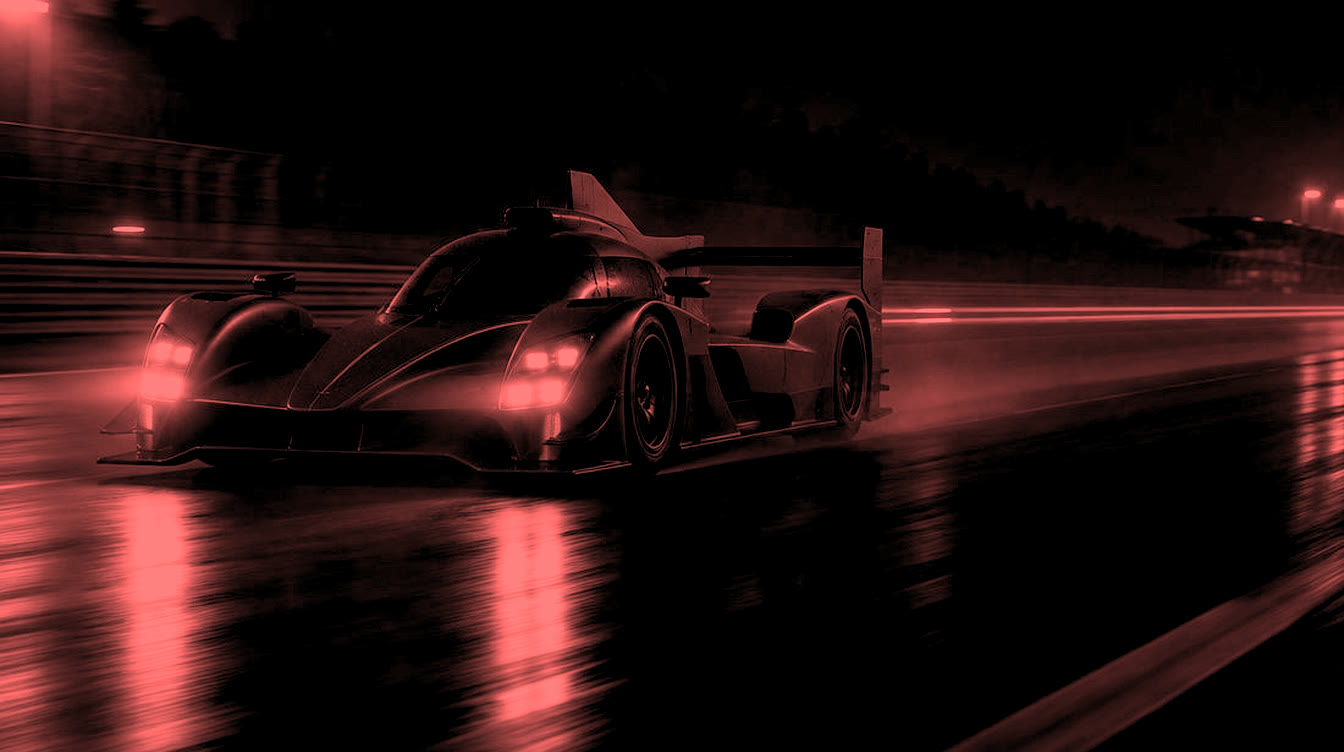
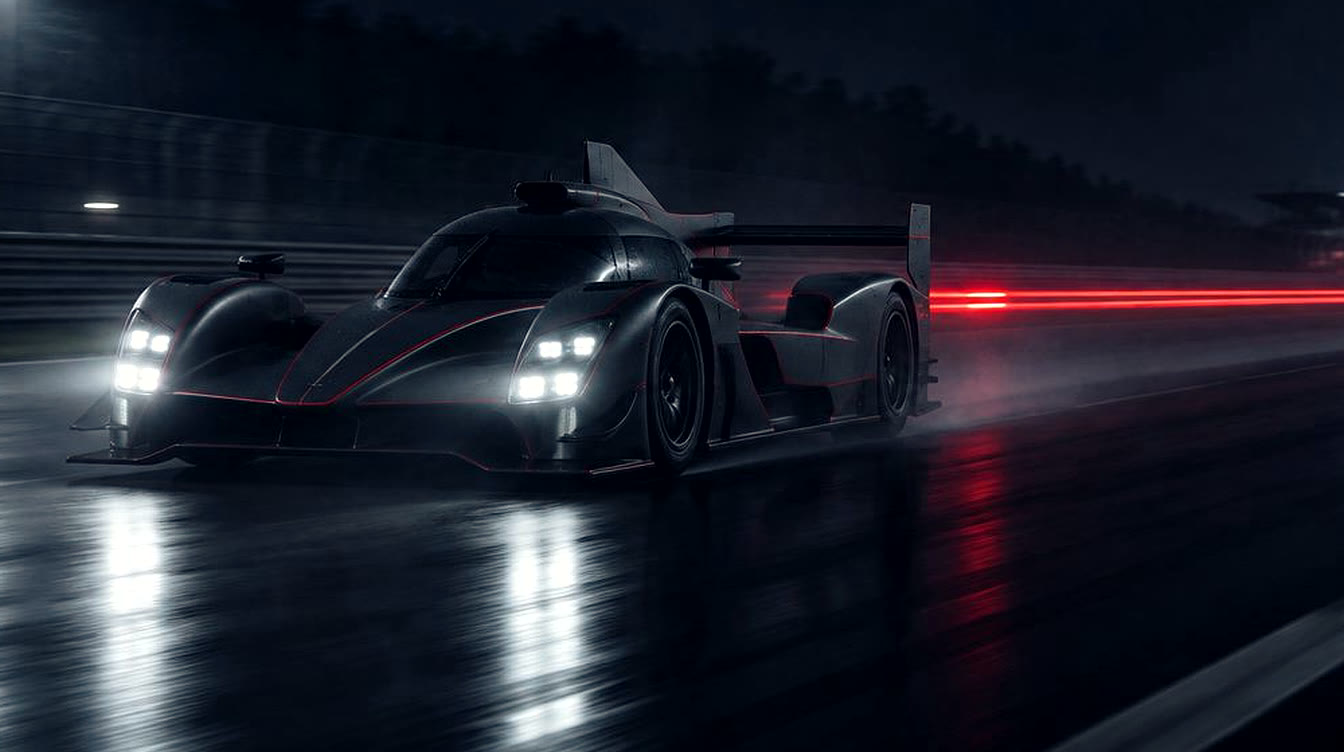
Onde assistir: WEC e WRC; foto de Le Mans com cor normal

diff --git a/le-mans.html b/le-mans.html
@@ -11,7 +11,7 @@
 <link rel="apple-touch-icon" href="assets/app/apple-touch-icon.png">
 <meta property="og:title" content="Le Mans | Automobilismo Na Veia">
 <meta property="og:description" content="Um dia inteiro de corrida. Sem parar.">
-<meta property="og:image" content="https://automobilismonaveia.com.br/assets/img/cat/le-mans.jpg">
+<meta property="og:image" content="https://automobilismonaveia.com.br/assets/img/cat/le-mans.jpg?v=2">
 <link rel="canonical" href="https://automobilismonaveia.com.br/le-mans.html">
 <meta property="og:url" content="https://automobilismonaveia.com.br/le-mans.html">
 <meta property="og:type" content="website">
@@ -22,7 +22,7 @@
 <link rel="preconnect" href="https://fonts.googleapis.com">
 <link rel="preconnect" href="https://fonts.gstatic.com" crossorigin>
 <link href="https://fonts.googleapis.com/css2?family=Inter:wght@400;500;600;700;800&family=Exo+2:wght@700;800&display=swap" rel="stylesheet">
-<link rel="preload" as="image" href="assets/img/cat/le-mans.jpg">
+<link rel="preload" as="image" href="assets/img/cat/le-mans.jpg?v=2">
 <link rel="stylesheet" href="assets/css/estilo.css?v=178">
 </head>
 <body data-cat="le-mans">

diff --git a/onde-assistir.html b/onde-assistir.html
@@ -67,7 +67,7 @@
     document.getElementById('oa-lista').innerHTML = (window.GRUPOS || []).map(function (g) {
       return '<h2 class="oa-grupo-tit">' + esc(g.nome) + '</h2><div class="oa-grade">' + g.cats.map(function (c) {
         if (!O.cats[c.slug]) return '';
-        return '<article class="oa-card"><a class="oa-foto" href="' + c.slug + '.html"><img src="' + c.foto + '" alt="" loading="lazy"><b>' + esc(c.nome) + '</b></a>' +
+        return '<article class="oa-card"><a class="oa-foto" href="' + c.slug + '.html"><img src="' + c.foto + '" alt="" loading="lazy"><b>' + esc(c.menu || c.nome) + '</b></a>' +
           O.quadro(c.slug, true) + (O.cats[c.slug].nota ? '<p class="oa-nota">' + esc(O.cats[c.slug].nota) + '</p>' : '') + '</article>';
       }).join('') + '</div>';
     }).join('');

diff --git a/assets/js/dados.js b/assets/js/dados.js
@@ -587,7 +587,7 @@ window.CATEGORIAS = [
 },
 {
   slug: 'le-mans', nome: 'Le Mans', menu: 'Le Mans', guia: false,
-  foto: 'assets/img/cat/le-mans.jpg',
+  foto: 'assets/img/cat/le-mans.jpg?v=2',
   frase: 'Um dia inteiro de corrida. Sem parar.',
   intro: 'A corrida mais famosa do mundo dura 24 horas: três pilotos revezam o mesmo carro, de dia, de noite e na neblina da madrugada. Em 2026, a Toyota #7 venceu por apenas 10 segundos depois de 381 voltas.',
   lider: { nome: 'Conway, Kobayashi e De Vries', info: 'Vencedores de 2026, Toyota #7' },

diff --git a/sw.js b/sw.js
@@ -1,7 +1,7 @@
 /* Service worker do app Na Veia.
    Páginas e dados: busca sempre a versão nova na internet e guarda uma cópia para abrir sem conexão.
    Imagens e fontes: usa a cópia guardada e atualiza por trás. */
-var VERSAO = 'naveia-v180';
+var VERSAO = 'naveia-v181';
 
 self.addEventListener('install', function () { self.skipWaiting(); });
 self.addEventListener('activate', function (e) {
